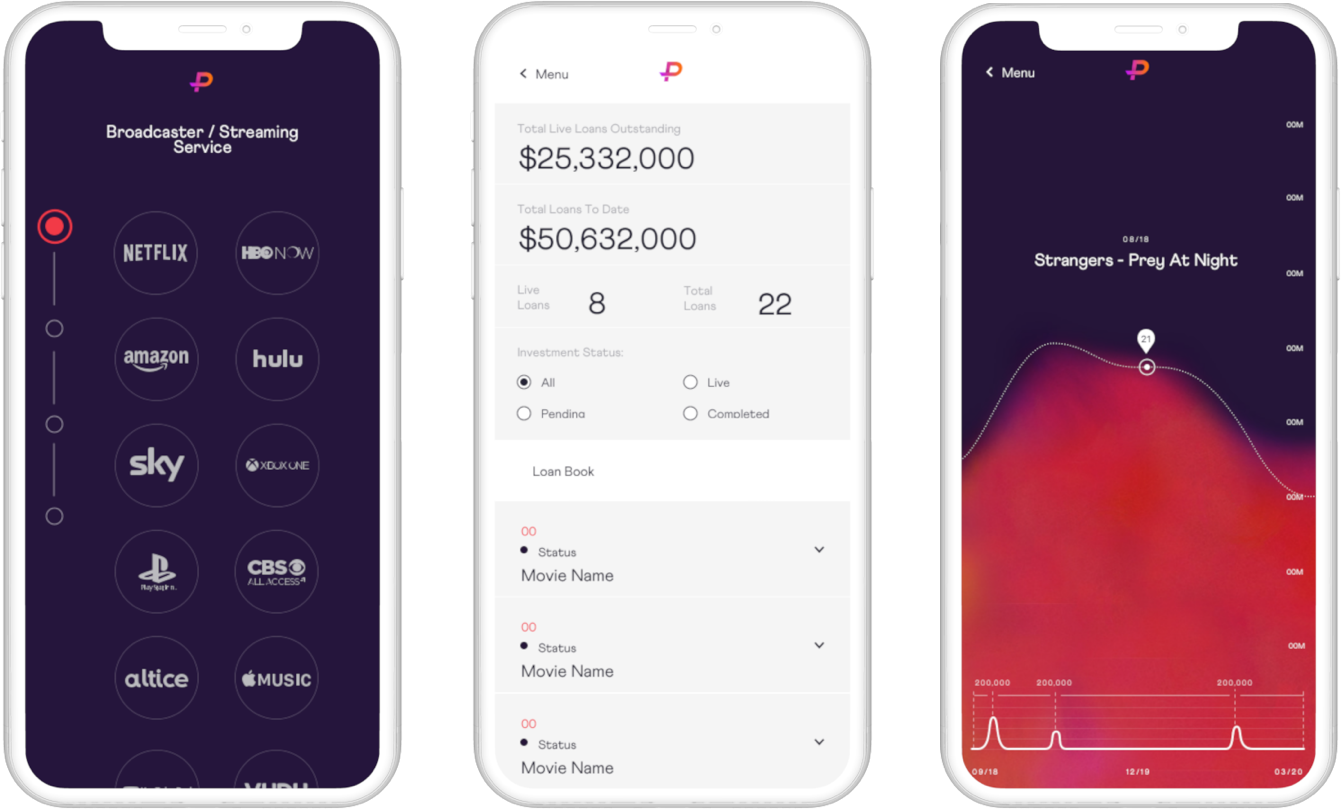
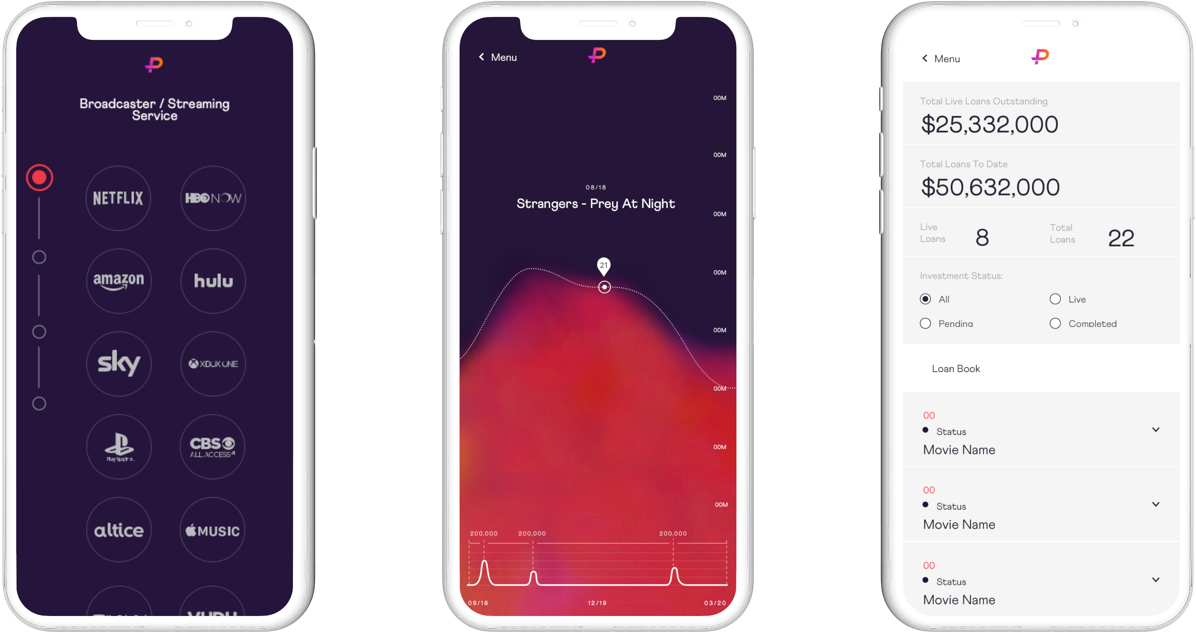
update hailie & purely with correct imagery

diff --git a/pages/projects/hailie.js b/pages/projects/hailie.js
@@ -4,7 +4,7 @@ import Page from '../../components/Page';
 import Header from '../../components/Header';
 import ProjectHero from "../../components/ProjectHero";
 import {TextListItem, WideListItem} from "../../components/ListItem";
-import ProjectDetailSectionItem, {ProjectTechSection} from "../../components/ProjectDetailSectionItem";
+import ProjectDetailSectionItem, {ProjectTechSection, ProjectTextSection} from "../../components/ProjectDetailSectionItem";
 import ProjectNav from "../../components/ProjectNav";
 import Footer from "../../components/Footer";
 
@@ -41,7 +41,7 @@ const TheComponent = class extends Component {
                             </React.Fragment>
                         }
                         className="hero--hailie"
-                        projectImage={"/static/images/projects/hailie/hailie-summary-iphone.png"}
+                        projectImage={"/static/images/projects/hailie/hailie-phone@1x.png"}
                     />
 
                     <div className="container">
@@ -50,24 +50,18 @@ const TheComponent = class extends Component {
                             className="flex-row-reverse"
                             subTitle={'Overview'}
                             imageOne={'/static/images/projects/hailie/hailie-sensor.png'}
-                            description={'A mobile app for people living with asthma. The app helps users to manage their condition and empowers them to take control of their health day by day.'}
-                        />
-
-                        <ProjectTextSection subTitle={'Overview'}
-                                            description={'Our client had backend infrastructure  and app developed over 4 years that couldn’t perform well at scale.\n' + '\n' +
-                                            'Building on our previous experience with Connected hardware, we built a mobile app and clinician dashboard which integrated with Adherium’s Bluetooth Smart Inhalers.\n' +
-                                            '\n' + 'Our quick turnaround had lead to us building and releasing the mobile and web portal to its first medical trial within 6 months. \n'}/>
-
+                            description={'Our client had backend infrastructure and app developed over 4 years that couldn’t perform well at scale.\n'+'\n'+
+                            'Building on our previous experience with Connected hardware, we built a mobile app and clinician dashboard which integrated with Adherium’s Bluetooth Smart Inhalers.\n' +
+                            '\n' + 'Our quick turnaround had lead to us building and releasing the mobile and web portal to its first medical trial within 6 months. \n'}/>
 
                         <ProjectTextSection subTitle={'Challenge'}
                                             description={'Adherium’s current platform was built in a tech stack that didn’t perform well at scale. There were also major differences between the Native iOS and Android applications, each with differing releases and UI. Previous scalability and tech choices meant that the best course of action meant developing largely from scratch.\n' + '\n' + 'During the initial stages of development there was limited handover from an existing development team which meant that there was little to salvage.\n' + '\n' + 'Content had to be fully localised in order to accommodate one of their larger Spanish clients.\n' + '\n' + 'Proprietary BLE devices meant that we had to cater for complex scenarios and data flow.\n'}/>
-
 
                         <ProjectDetailSectionItem
                             className="flex-row-reverse"
                             subTitle={'Solution'}
                             title={'Mobile App'}
-                            imageOne={'/static/images/projects/hailie/hailie-2.png'}
+                            imageOne={'/static/images/projects/hailie/hailie-phones-1@1x.png'}
                             description={'We developed a seamless onboarding experience, allowing users to easily pair their bluetooth inhaler sensors with the app.'}
                             ProjectServiceListItem={
                                 <React.Fragment>
@@ -85,7 +79,7 @@ const TheComponent = class extends Component {
                         <ProjectDetailSectionItem
                             subTitle={'Solution'}
                             title={'Web Portal'}
-                            imageOne={'/static/images/projects/hailie/hailie-5.png'}
+                            imageOne={'/static/images/projects/hailie/hailie-iMac@1x.png'}
                             description={'The web portal allows doctors to monitor their patients sensor usage, and prescribe medication and guidance where necessary.'}
                             ProjectServiceListItem={
                                 <React.Fragment>
@@ -99,11 +93,19 @@ const TheComponent = class extends Component {
 
 
                         <div className="col-md-12 pr-0 pl-0">
-                            <video width="100%" autoPlay="" muted="" loop="">
+                            <video width="100%" autoPlay={true} muted={true} loop={true}>
                                 <source src="https://storage.cloud.google.com/ssg-website-images/video/Hailie%204k.mov"
                                         type="video/mp4" />
                             </video>
                         </div>
+
+                        <ProjectDetailSectionItem
+                            className="flex-row-reverse"
+                            subTitle={'Overview'}
+                            title={'Fluid onboarding'}
+                            imageOne={'/static/images/projects/hailie/hailie-phones-2@1x.png'}
+                            description={'We developed a seamless onboarding experience, allowing users to easily pair their bluetooth inhaler sensors with the app.'}/>
+
 
                         <ProjectTechSection
                             description={'Using React Native we were able to communicate with the Bluetooth inhalers both with shared code across Android and iOS, reducing the differences between them.  \n' +

diff --git a/pages/projects/purely-capital.js b/pages/projects/purely-capital.js
@@ -53,6 +53,7 @@ const TheComponent = class extends Component {
                         '\n'} />
 
                         <ProjectDetailSectionItem
+                            subTitle={'Design Discovery'}
                             title={'UX Research'}
                             imageOne={'/static/images/projects/purely-capital/purely_wireframes.png'}
                             description={'We work with you to iterate on the various creative deliverables until you achieve your vision.'}
@@ -70,6 +71,7 @@ const TheComponent = class extends Component {
                         />
 
                         <ProjectDetailSectionItem
+                            subTitle={'UX Process'}
                             className="flex-row-reverse"
                             title={'Prototyping'}
                             imageOne={'/static/images/projects/purely-capital/purely_desktop-1.png'}
@@ -80,18 +82,35 @@ const TheComponent = class extends Component {
                                         listItemText={'Wireframing'}/>
                                     <WideListItem
                                         listItemText={'Clickable Prototypes'}/>
-                                    <WideListItem
-                                        listItemText={'Motion Prototypes'}/>
-                                    <WideListItem
-                                        listItemText={'Interaction Design'}/>
                                 </React.Fragment>}
                         />
 
-                        <ProjectTextSection subTitle={'Solution'} description={'To create an engaging, interactive experience to what is a considerably sterile subject matter. Large forms are always daunting for users and product designers so creating a unique and exciting initial experience was paramount for \'selling\' this product to new visitors.\n' +
+                        <ProjectDetailSectionItem
+                            subTitle={'High Fidelity Design'}
+                            title={'Interaction Design'}
+                            video={'https://storage.googleapis.com/ssg-website-images/case-studies/purely-capital/quote-confirmationv2.mov'}
+                            description={'\n' +
+                            'We focussed on specific areas of the app and undertook detailed interaction design phases to make the product \'pop\' in all the right moments.'}
+                            ProjectServiceListItem={
+                                <React.Fragment>
+                                    <WideListItem
+                                        listItemText={'Motion Prototpyes'}/>
+                                    <WideListItem
+                                        listItemText={'UI Design'}/>
+                                    <WideListItem
+                                        listItemText={'High Fidelity Prototypes'}/>
+                                    <WideListItem
+                                        listItemText={'Frontend Development'}/>
+                                </React.Fragment>}
+                        />
+
+                        <ProjectTextSection subTitle={'Solution'} description={'We identified the first contact and the final quote as the areas that book ended the initial experience for the end user and ensured that we surprised and delighted the user, despite the rather labour intensive application process.' +
                         '\n'} />
 
                         <div className="section">
-                            <img className="img-fluid" src="/static/images/projects/purely-capital/purely-phones@2x.png" />
+                            <div className="container">
+                                <img className="img-fluid" src="/static/images/projects/purely-capital/purely-phones@1x.png" />
+                            </div>
                         </div>
 
                         <ProjectTechSection

diff --git a/components/ProjectDetailSectionItem.js b/components/ProjectDetailSectionItem.js
@@ -31,6 +31,7 @@ const ProjectDetailSectionItem = global.ProjectDetailSectionItem = class extends
             <div className={cn(this.props.className, 'row project-section-item pt-5 pb-5')}>
                 <div className="col-md-6 d-flex justify-content-center">
                     <div className="flex-row">
+                        {this.props.imageOne ? (
                         <div className="col align-self-end">
                             <img
                               src={this.props.imageOne || '/static/images/services/mobile-app-development.jpg'}
@@ -38,7 +39,9 @@ const ProjectDetailSectionItem = global.ProjectDetailSectionItem = class extends
                               className={cn(this.props.imageOneclassName, "img-fluid")}
                             />
                         </div>
-
+                        ) : (
+                            null
+                        )}
                         {this.props.imageTwo ? (
                             <div className="col align-self-end">
                                 <img
@@ -51,12 +54,24 @@ const ProjectDetailSectionItem = global.ProjectDetailSectionItem = class extends
                             null
                         )}
 
+                        {this.props.video ? (
+                            <div className="col align-self-end">
+                                <video preload="none" autoPlay={true} muted={true} loop={true} width="100%">
+                                    <source
+                                        src={this.props.video || "https://storage.googleapis.com/ssg-website-images/case-studies/purely-capital/quote-confirmationv2.mov"}
+                                        type="video/mp4"/>
+                                </video>
+                            </div>
+                        ) : (
+                            null
+                        )}
                     </div>
                 </div>
+
                 <div className="col-md-5 offset-md-1 pr-5">
                     <h6 className="title--project-section title--project-section--small text-grey mb0">{this.props.subTitle || 'Design Discovery'}</h6>
                     <h3>{this.props.title || null}</h3>
-                    <p className="mt-4">{this.props.description || 'We work with you to iterate on the various creative deliverables until you achieve your vision.'}</p>
+                    <p className="mt-4 project-section-item__text">{this.props.description || 'We work with you to iterate on the various creative deliverables until you achieve your vision.'}</p>
 
 
                     {this.props.ProjectServiceListItem ? (

diff --git a/components/FeaturedProjects.js b/components/FeaturedProjects.js
@@ -50,7 +50,7 @@ const projects = [
         className: 'project--hailie',
         ButtonComponent: ButtonPrimary,
         href: '/projects/hailie',
-        projectImage: '/static/images/projects/hailie/hailie-summary-iphone.png',
+        projectImage: '/static/images/projects/hailie/hailie-phone@1x.png',
         subTitle: 'iOS and Android Mobile App',
         title: 'Reinventing treatment of respiritory issues',
         tags: ['Cloud Infrastructure', 'Systems Integration', 'API Development'],

diff --git a/pages/work.js b/pages/work.js
@@ -32,7 +32,7 @@ const projects = [
     {
         ButtonComponent: ButtonPrimary,
         href: '/projects/hailie',
-        projectImage: '/static/images/projects/hailie/hailie-summary-iphone.png',
+        projectImage: '/static/images/projects/hailie/hailie-phone@1x.png',
         subTitle: 'iOS and Android Mobile App',
         title: 'Reinventing treatment of respiritory issues',
         blobColour: "#FF715A",
